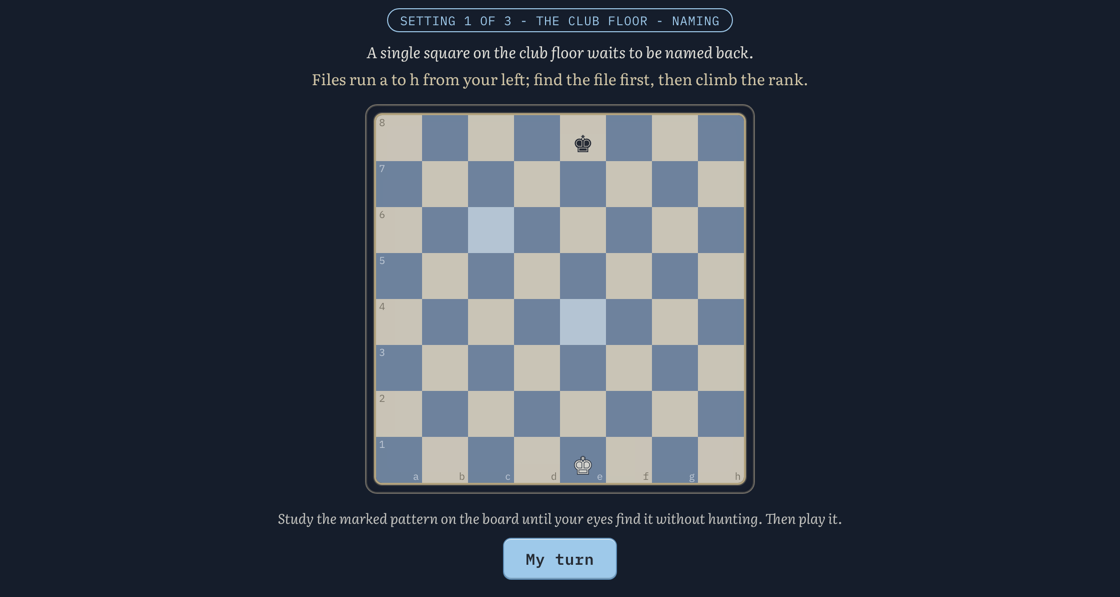
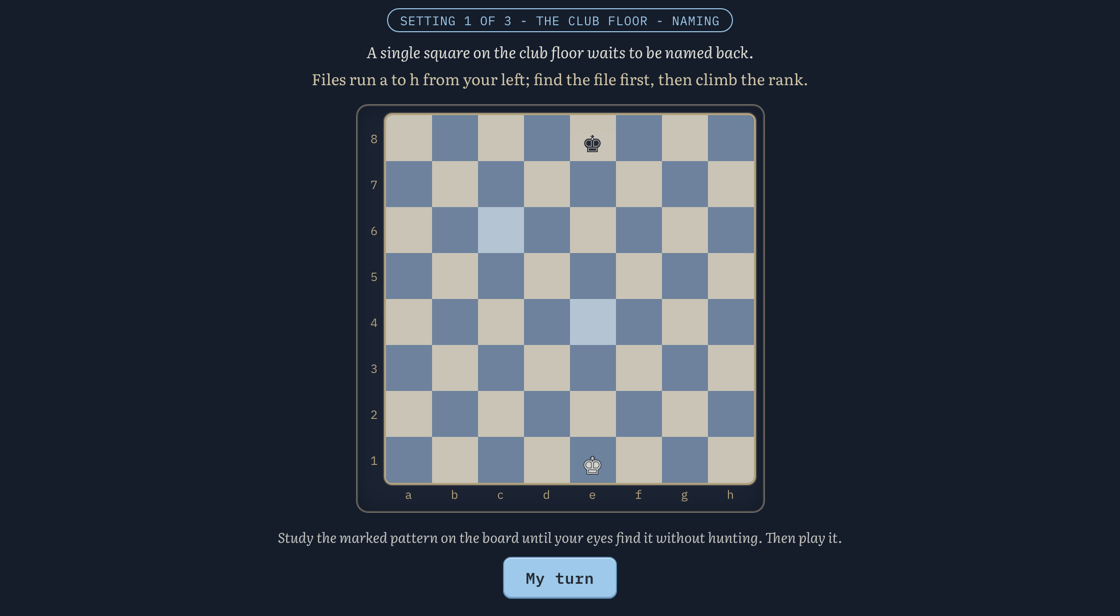
Retake the screenshot for the gutter

Changed region(s): [[0.25, 0.0, 0.75, 0.9648]]

diff --git a/design-history.md b/design-history.md
@@ -8,7 +8,7 @@ An interactive chess course in one React file, built for a complete beginner who
 
 One file. No dependencies beyond React. Engine, content and interface all live together, and the constraint did most of the work: when there is nowhere to hide a flourish, you stop writing flourishes.
 
-Two non-text marks in the whole interface: the pieces and a lock. No gradients. The white pieces carry a thin outline, because cream on cream is not a contrast. Everything else is type, rule and color.
+Two non-text marks in the whole interface: the pieces and a lock. No gradients. The white pieces carry a thin outline, because cream on cream is not a contrast. The coordinates sit in a gutter outside the grid, because on the squares they had eight different backgrounds to survive and cleared none of them, and on rank 1 they ran under the pieces. Chapter 1 is the lesson about reading coordinates, so that was the worst place in the game to have them. Everything else is type, rule and color.
 
 ## What it is made of
 
